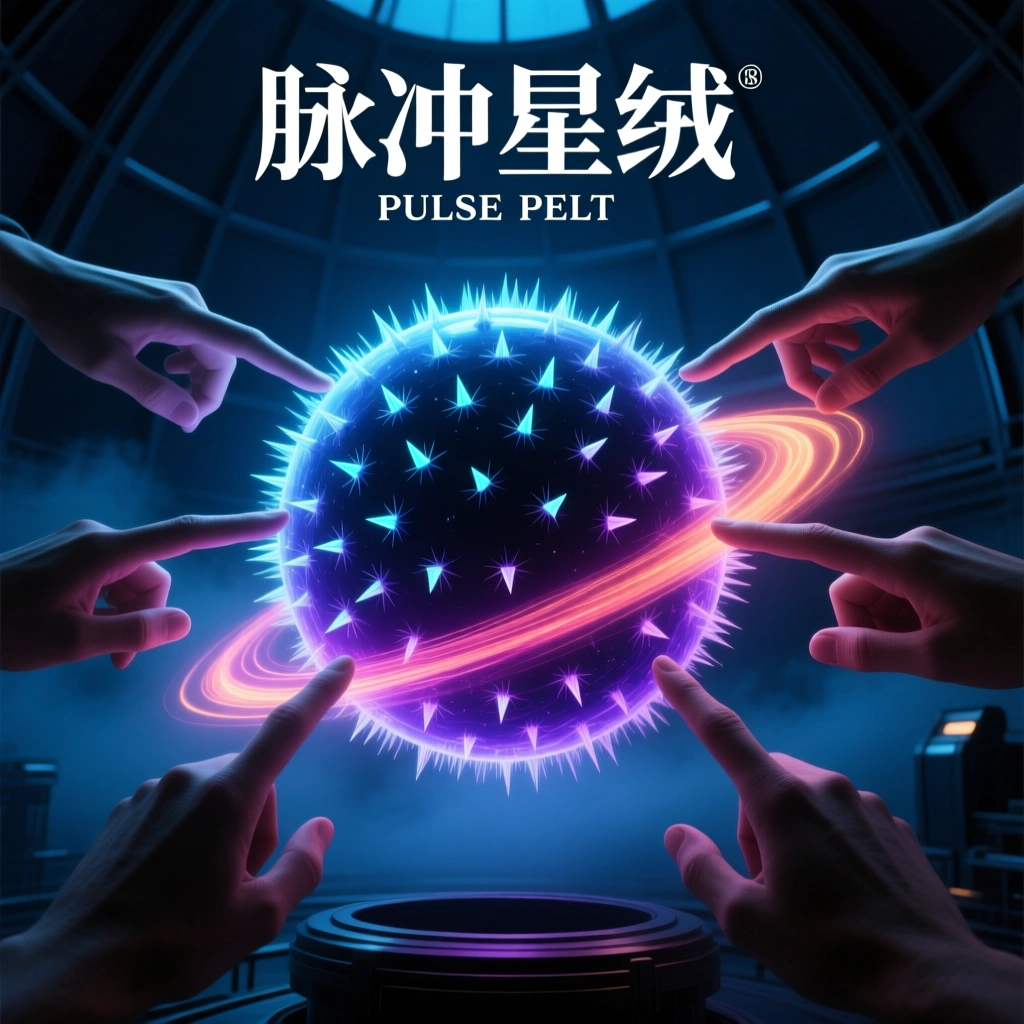
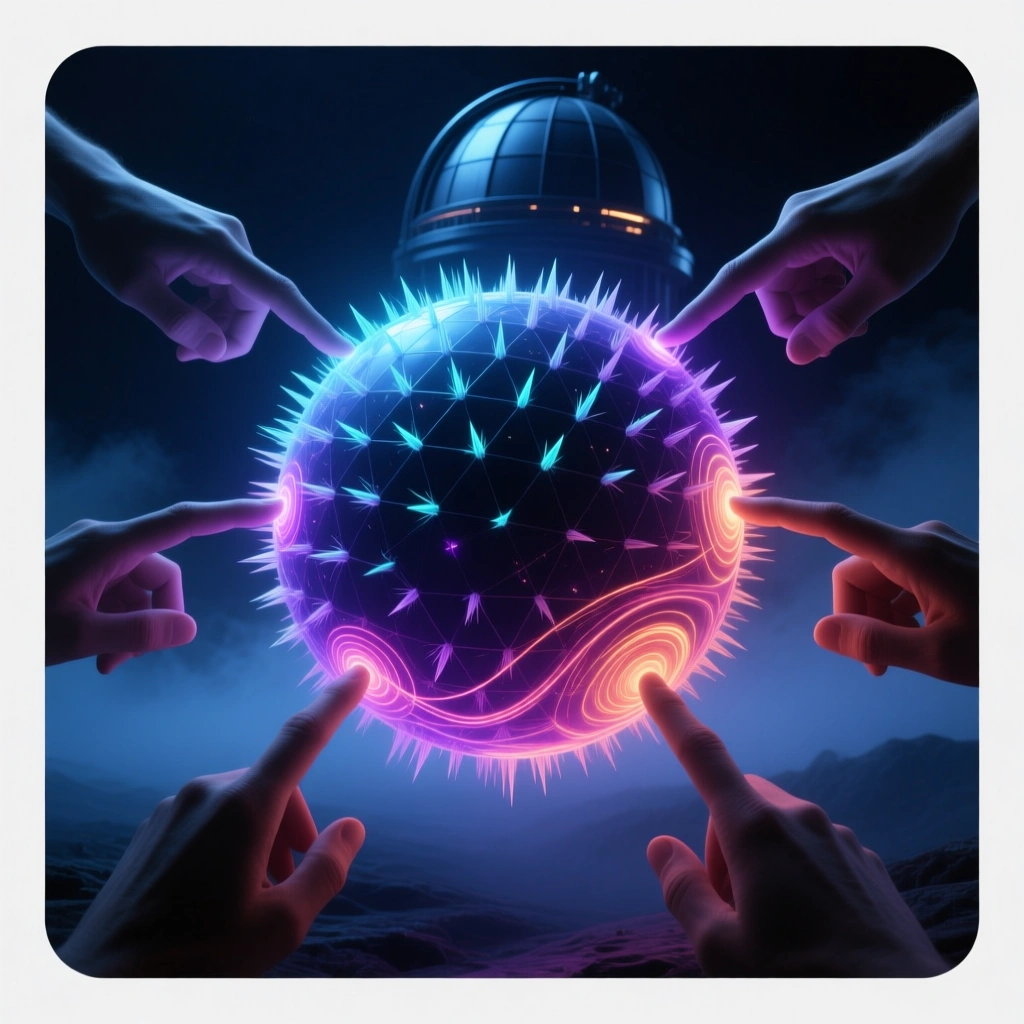
fix: replace poster with English title

diff --git a/doc/poster-source.md b/doc/poster-source.md
@@ -4,30 +4,36 @@
 
 - 接口：`POST https://chat.aiwaves.tech/aigram/api/gen-image`
 - 请求头：`Origin: https://aigram.app`
-- 生成日期：2026-07-29
-- 最终原始输出：`https://cdn.aiwaves.tech/prod/telegram/avatar/0/1785340799935048.webp`
+- 生成日期：2026-07-30
+- 最终无字主画面：`https://cdn.aiwaves.tech/prod/telegram/avatar/0/1785347020198989.webp`
 - 本地源文件：`public/poster-source.webp`
 - 交付文件：`public/poster.png`
 
 ## 最终请求
 
 ```text
-Full-bleed square 1024x1024 cinematic fantasy key art, absolutely no phone,
-no screen, no border, no rounded frame, no interface, no logo, no watermark.
-A mysterious dark observatory in deep indigo mist. At center floats one living
-celestial sphere covered in thousands of fine luminous triangular fiber quills.
-Exactly six distinct human fingertips enter naturally from the outer edges and
-touch different points on the sphere, creating cyan, violet, magenta, coral and
-amber resonance waves across the fibers. Emotional tactile wonder, premium
-game-poster lighting, strong single focal subject, deep dimensional atmosphere.
-Typeset the exact Chinese title 脉冲星绒 in bold clean white sans serif at the
-very top inside the upper 18 percent, with small English subtitle PULSE PELT
-beneath. Keep the bottom 20 percent quiet and free of essential objects or text.
-The title and sphere must remain clear at 160x160 thumbnail.
+Square 1024x1024 full-bleed cinematic fantasy game poster key art filling every
+pixel edge to edge. NO text, NO letters, NO words, NO numbers, NO symbols, NO
+logo, NO watermark, NO title. NO white margin, NO border, NO frame, NO card, NO
+rounded corners, NO phone, NO screen, NO interface. A mysterious dark indigo
+observatory in mist. One living celestial sphere floats centrally, covered in
+thousands of fine luminous triangular fiber quills. Exactly six distinct human
+fingertips enter naturally from the outer image edges and touch six different
+points, creating cyan, violet, magenta, coral and amber resonance waves. Premium
+tactile fantasy key art, emotional wonder, strong central subject, rich depth.
+Leave calm dark negative space across the upper 18 percent for a title to be
+added later. Keep the bottom 20 percent free of essential content.
 ```
+
+## 标题排版
+
+- 在 transit 生成的栅格主画面上排入唯一标题 `PULSE PELT`。
+- 标题使用白色粗体无衬线大写英文字母，位于顶部 18% 安全区。
+- 不含中文、字幕、标语、标点、商标符号或其他附加文字。
+- 输出前将生成稿边缘裁切并以深靛色压平透明圆角，保持 1:1 全出血。
 
 ## 评审
 
-- `1024×1024`：标题位于顶部安全区；六个触点、纤维星体和共振光带构成明确叙事；无设备框、游戏 UI 或水印。
-- `160×160`：中文标题、星体轮廓和六指触碰仍可辨认。
-- 拒绝稿：第一次生成结果含手机设备外框，未进入仓库。
+- `1024×1024`：唯一可见文字为英文标题 `PULSE PELT`；六个触点、纤维星体和共振光带构成明确叙事；无设备框、游戏 UI 或水印。
+- `160×160`：英文标题、星体轮廓和六指触碰仍可辨认。
+- 拒绝稿：旧上线稿含中文标题；两次英文重生稿被模型擅自加入句点与注册符号，均未进入本次发布。
